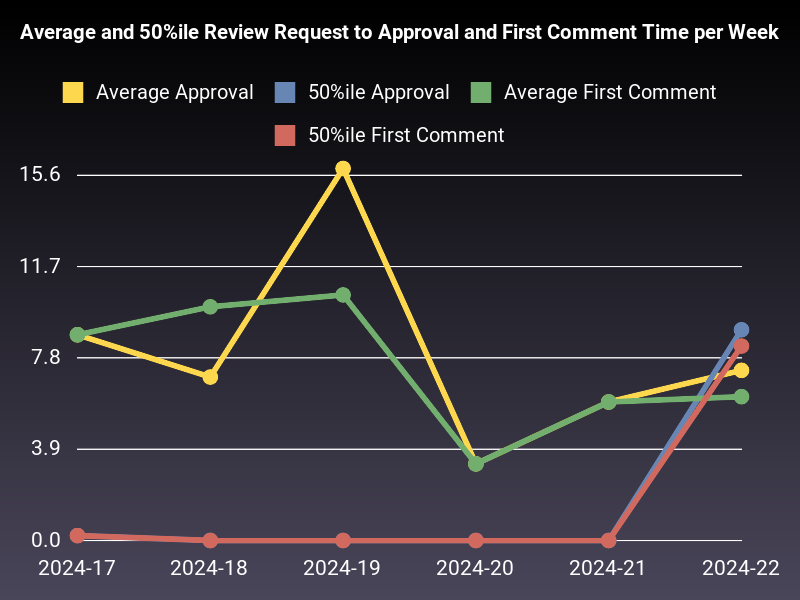
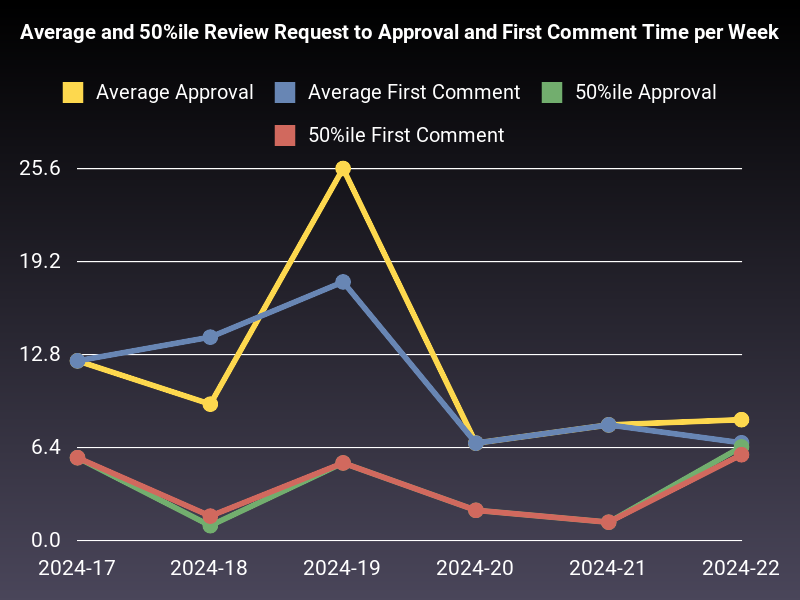
fix

diff --git a/index.rb b/index.rb
@@ -7,7 +7,7 @@ require 'gruff'
 require 'business_time'
 
 BusinessTime::Config.beginning_of_workday = "10:00 am"
-BusinessTime::Config.end_of_workday = "07:00 pm"
+BusinessTime::Config.end_of_workday = "23:59 pm"
 BusinessTime::Config.work_week = [:mon, :tue, :wed, :thu, :fri]
 
 class PullRequestResult
@@ -18,12 +18,12 @@ class PullRequestResult
     @number = pr.number
     @title = pr.title
     @author = pr.user.login
-    @created_at = pr.created_at
-    @opened_at = pr.created_at
+    @created_at = pr.created_at.in_time_zone('Tokyo')
+    @opened_at = pr.created_at.in_time_zone('Tokyo')
     @review_requested_at = nil
     @first_comment_at = nil
     @approved_at = nil
-    @merged_at = pr.merged_at
+    @merged_at = nil
     @merge_commit_sha = pr.merge_commit_sha
 
     calculate_by_events(events)
@@ -54,8 +54,8 @@ class PullRequestResult
 
   def calculate_by_events(events)
     events.each do |event|
-      @review_requested_at ||= event.created_at if event.event == 'review_requested'
-      @merged_at = event.created_at if event.commit_id == @merge_commit_sha && event.event == 'closed'
+      @review_requested_at ||= event.created_at.in_time_zone('Tokyo') if event.event == 'review_requested'
+      @merged_at = event.created_at.in_time_zone('Tokyo') if event.commit_id == @merge_commit_sha && event.event == 'closed'
     end
   end
 
@@ -64,14 +64,15 @@ class PullRequestResult
       if comment.user.login == author
         next
       end
-      @first_comment_at ||= comment.created_at
-      @first_comment_at = comment.created_at if @first_comment_at > comment.created_at
+      comment_created_at = comment.created_at.in_time_zone('Tokyo')
+      @first_comment_at ||= comment_created_at
+      @first_comment_at = comment_created_at if @first_comment_at >comment_created_at
     end
   end
 
   def calculate_by_reviews(reviews)
     reviews.each do |review|
-      @approved_at ||= review.submitted_at if review.state == 'APPROVED'
+      @approved_at ||= review.submitted_at.in_time_zone('Tokyo') if review.state == 'APPROVED'
     end
   end
 end
@@ -103,7 +104,7 @@ class ReviewChecker
     prs.sort_by! { |pr| pr.created_at }
     prs.map do |pr|
       create_result(pr)
-    end
+    end.select { |pr| !pr.review_requested_at.blank? }
   end
 
   def create_result(pr)
@@ -117,7 +118,7 @@ class ReviewChecker
     results = fetch_results
 
     CSVWriter.new(results).execute!
-    GraphGenerator.new(results).execute!
+    GraphGenerator.new(results).execute_line!
   end
 end
 
@@ -128,7 +129,7 @@ class CSVWriter
 
   def execute!(filename="pr_data.csv")
     CSV.open(filename, "w") do |csv|
-      csv << %w["PR番号", "タイトル", "作成時刻", "レビュー依頼時刻", "Open時刻", "最初のコメント時刻", "approve時刻", "merge時刻", "レビュー依頼からapproveまでの時間(時間)"]
+      csv << %w[PR番号, タイトル, 作成時刻, レビュー依頼時刻, Open時刻, 最初のコメント時刻, approve時刻, merge時刻, レビュー依頼からコメントまでの時間, レビュー依頼からapproveまでの時間]
 
       @pr_results.each do |result_data|
         csv << [
@@ -140,6 +141,7 @@ class CSVWriter
           result_data.first_comment_or_approve_at,
           result_data.approved_at,
           result_data.merged_at,
+          result_data.review_to_first_comment_time,
           result_data.review_to_approve_time
         ]
       end
@@ -154,7 +156,7 @@ class GraphGenerator
     @pr_results = pr_results
   end
 
-  def execute!
+  def execute_line!
     weekly_approval_data = Hash.new { |hash, key| hash[key] = [] }
     weekly_first_comment_data = Hash.new { |hash, key| hash[key] = [] }
 
@@ -191,21 +193,24 @@ class GraphGenerator
     g = Gruff::Line.new
     g.title = 'Average and 50%ile Review Request to Approval and First Comment Time per Week'
     g.labels = all_weeks.each_with_index.map { |week, i| [i, week] }.to_h
+
     g.data(:'Average Approval', all_weeks.map { |week| weekly_approval_avg[week] || 0 })
-    g.data(:'50%ile Approval', all_weeks.map { |week| weekly_approval_median[week] || 0 })
     g.data(:'Average First Comment', all_weeks.map { |week| weekly_first_comment_avg[week] || 0 })
+
+    g.data(:'50%ile Approval', all_weeks.map { |week| weekly_approval_median[week] || 0 })
     g.data(:'50%ile First Comment', all_weeks.map { |week| weekly_first_comment_median[week] || 0 })
     g.write('review_to_approve_time.png')
 
     puts "グラフを作成しました: review_to_approve_time.png"
   end
 
+  private
+
   def median(array)
     sorted = array.sort
     len = sorted.length
     (sorted[(len - 1) / 2] + sorted[len / 2]) / 2.0
   end
-
 
 end
 
